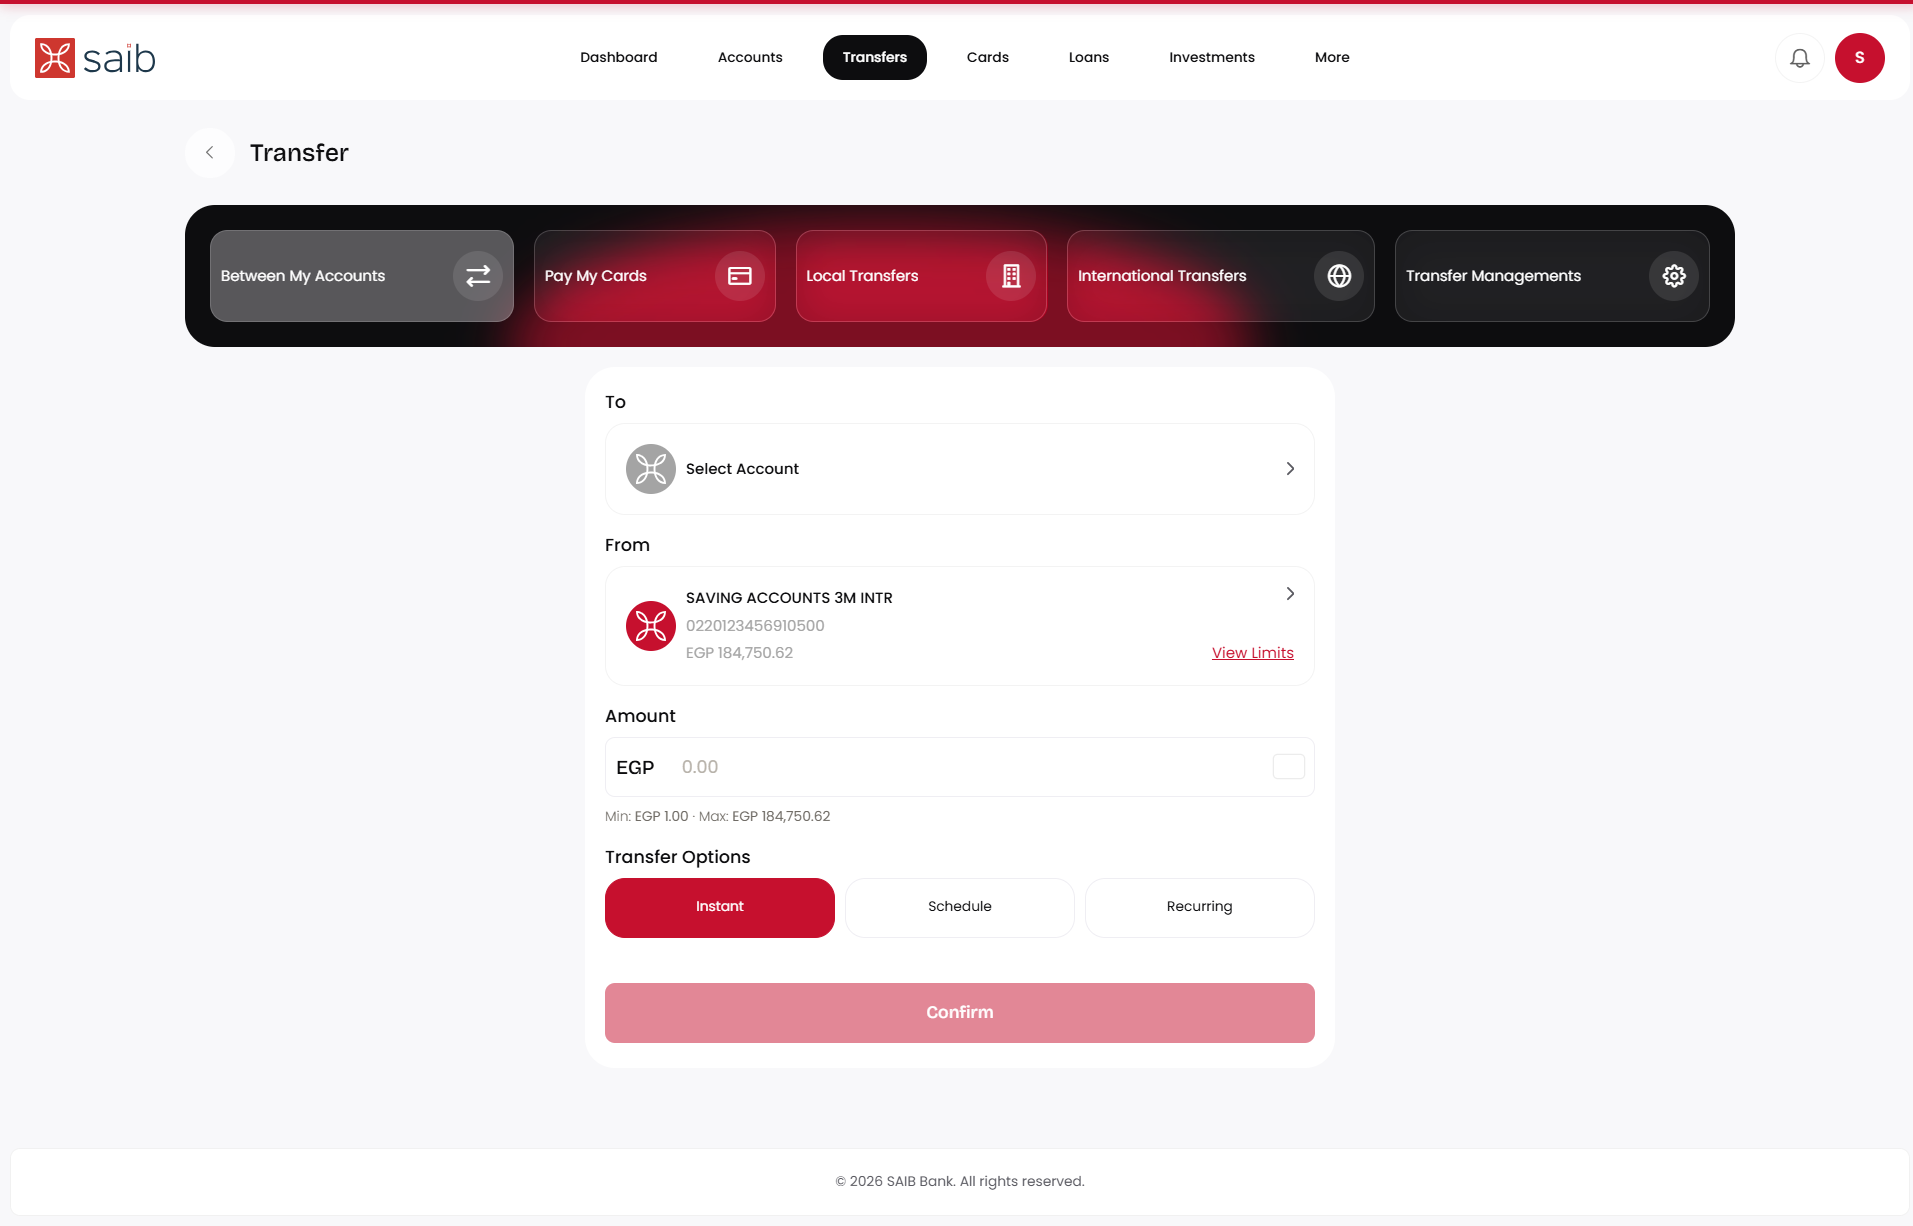
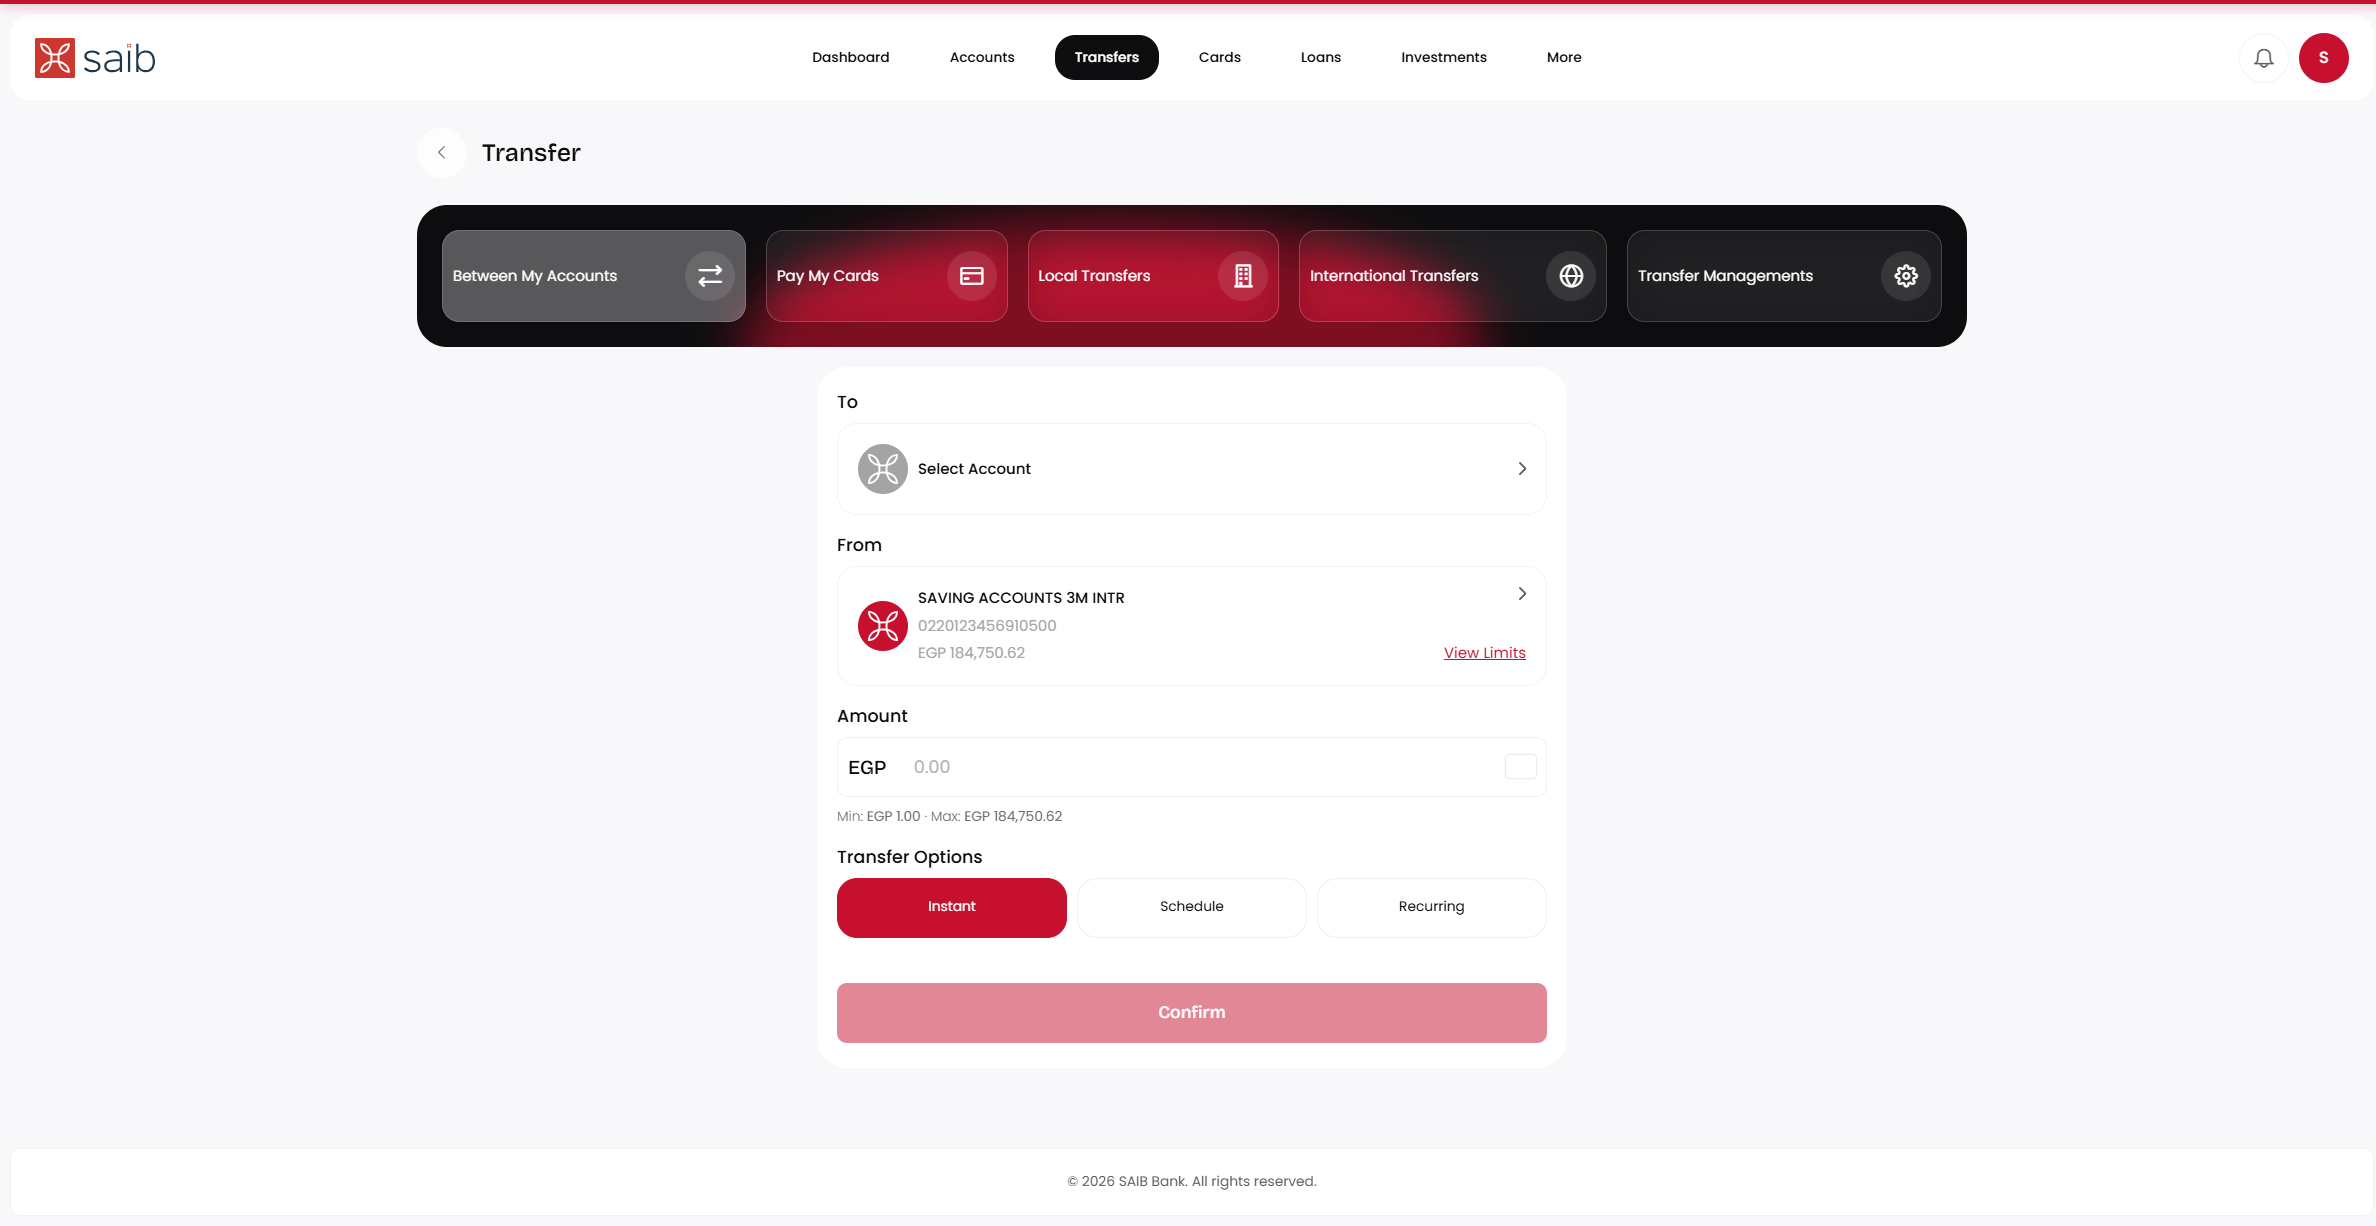
feat(test-setup): maximize browser windows for all tests (portal + CRM); add maximize rule to the test-implementation skill
Reference spec (TC-CROSS-001, the cross-system portal+CRM validation) verified passing
with both windows maximized; no other test was run.

- transfer-between-accounts-crm-log.spec.ts: the manually-created CRM context now
  passes viewport: null, so the second (CRM) window fills the maximized frame instead
  of clamping to Playwright's 1280x720 default. The portal page uses the default
  fixture, already maximized via config.
- playwright.config.ts: comment clarifies the maximize mechanism — viewport: null +
  --start-maximized (headed) with --window-size=1920,1080 as the headless/CI fallback.
- 13-automation-implementation-agent.md: added a mandatory "Maximize browser windows"
  section so every future test maximizes, including both windows in cross-system tests.

diff --git a/playwright.config.ts b/playwright.config.ts
@@ -45,11 +45,13 @@ export default defineConfig({
 
     ignoreHTTPSErrors: true,
 
-    // viewport: null disables Playwright's forced 1280×720 clamp so the OS window size applies.
-    // Combined with --start-maximized this gives D365 forms the full desktop viewport,
-    // which renders more columns and reduces the scroll distance needed to reach bottom sections.
-    // --window-size covers headless runs (where --start-maximized is a no-op and the 800×600
-    // default collapses the portal navbar into a hamburger menu, hiding the nav links).
+    // Maximize browser windows (skill 13, mandatory rule).
+    // viewport: null disables Playwright's forced 1280×720 clamp so the page fills
+    // the whole window. --start-maximized opens a maximized window in headed runs;
+    // --window-size=1920,1080 is the headless/CI fallback (where --start-maximized is a
+    // no-op) — it also stops the 800×600 default collapsing the portal navbar into a
+    // hamburger menu, which hides the nav links. Any context a test opens must repeat
+    // viewport: null so secondary windows (e.g. the CRM window) maximize too.
     viewport: null,
     launchOptions: {
       timeout: 30_000,

diff --git a/tests/crm/cross-system/transfer-between-accounts-crm-log.spec.ts b/tests/crm/cross-system/transfer-between-accounts-crm-log.spec.ts
@@ -62,7 +62,10 @@ test.describe('Cross-System: Portal Transfer → CRM Log Validation', () => {
     // Portal uses form-login cookies; CRM uses NTLM — separate contexts per Skill 20.
     // Browser-native NTLM via httpCredentials handles D365's 40+ concurrent init
     // requests efficiently; the old httpntlm route-intercept caused ECONNRESET failures.
+    // viewport: null makes this second window fill the maximized frame — without it
+    // the context would clamp to Playwright's 1280×720 default (skill 13 maximize rule).
     const crmContext = await browser.newContext({
+      viewport: null,
       httpCredentials: {
         username: ENV.crm.username,
         password: ENV.crm.password,

diff --git a/docs/ai-workflow/13-automation-implementation-agent.md b/docs/ai-workflow/13-automation-implementation-agent.md
@@ -260,6 +260,21 @@ Self-healing is NOT permitted for:
 
 ---
 
+## Maximize browser windows (mandatory for every test)
+
+Every test must start with a maximized browser window.
+
+* The base config (`playwright.config.ts`) uses `headless: false`, `viewport: null`, and `launchOptions.args: ['--start-maximized']`.
+* Any browser context/window a test opens (portal, CRM, or any secondary window) MUST be created with `viewport: null` so it fills the maximized window.
+* In cross-system tests that open both the portal and CRM, both windows must be maximized — apply `viewport: null` to each context.
+* For headless/CI runs where `--start-maximized` has no effect, use a large fixed viewport (`{ width: 1920, height: 1080 }`) as the fallback. In this repo that is supplied by `launchOptions.args: ['--window-size=1920,1080']`, so a headless page with `viewport: null` fills 1920×1080.
+* Remove any leftover fixed `viewport` in the config or in context creation that would override the maximize (keep only the headless fallback).
+* Reference implementation: `tests/crm/cross-system/transfer-between-accounts-crm-log.spec.ts` — the portal uses the default `page` fixture (maximized via config), and the CRM `browser.newContext({ viewport: null, httpCredentials, ... })` maximizes the second window.
+
+Repo note: the portal-only `chromium` project runs headless (fast CI) and relies on the 1920×1080 fallback; the `crm` project (which owns the cross-system reference spec) runs `headless: false` and truly maximizes. Whichever mode a project runs in, every context it opens still passes `viewport: null`.
+
+---
+
 ## Locator Strategy
 
 Use Locator Repository first.
